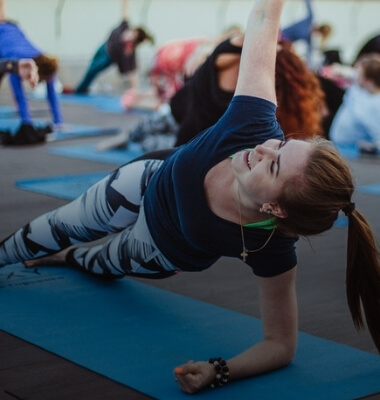
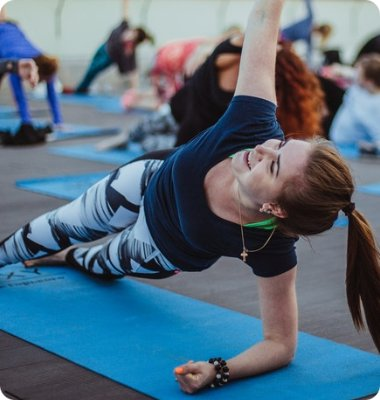
optimize images

diff --git a/src/assets/components/hero/_hero.scss b/src/assets/components/hero/_hero.scss
@@ -13,7 +13,7 @@
 		align-items: center;
 
 		background-color: #222;
-		background-image: url('../img/hero-bg.png');
+		background-image: url('../img/hero-bg.jpeg');
 		background-position: center center;
 		background-size: cover;
 		background-repeat: no-repeat;

diff --git a/src/assets/components/sound/_sound.scss b/src/assets/components/sound/_sound.scss
@@ -1,7 +1,7 @@
 .sound {
 	background-color: aliceblue;
 
-	background-image: url('../img/sound-bg.png');
+	background-image: url('../img/sound-bg.jpeg');
 	background-position: center center;
 	background-size: cover;
 	background-repeat: no-repeat;

diff --git a/src/assets/components/price/_price.scss b/src/assets/components/price/_price.scss
@@ -1,6 +1,6 @@
 .price {
 	background-color: #fff3f3;
-	background-image: url('../img/price-bg.png');
+	background-image: url('../img/prices-bg.jpeg');
 	background-position: center center;
 	background-size: cover;
 	background-repeat: no-repeat;
